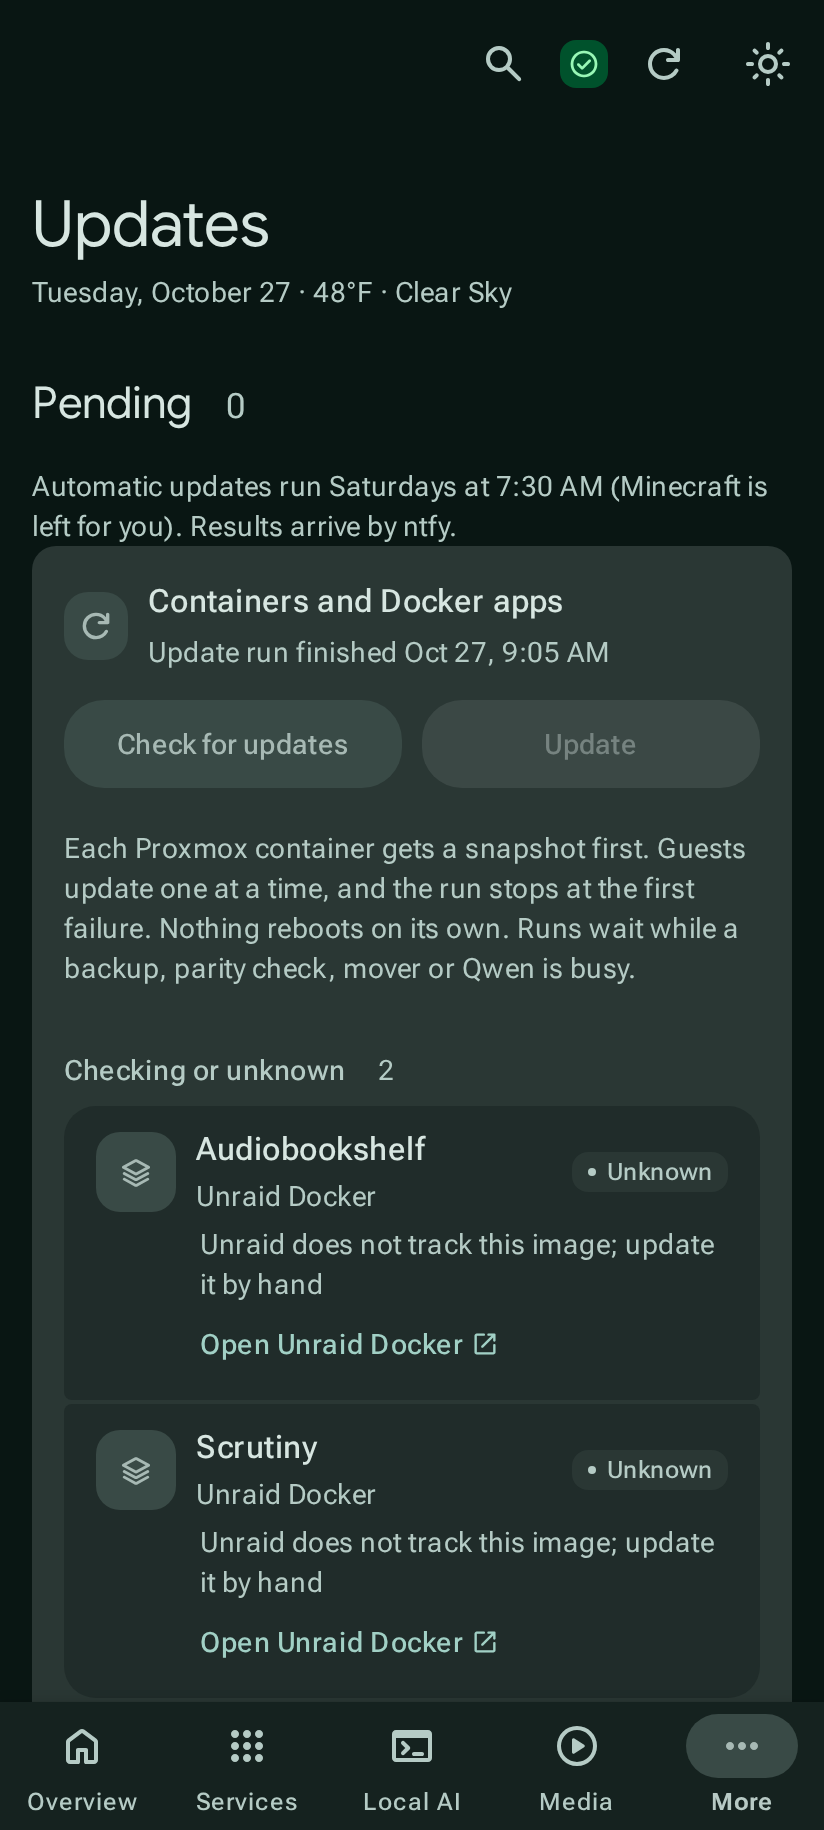
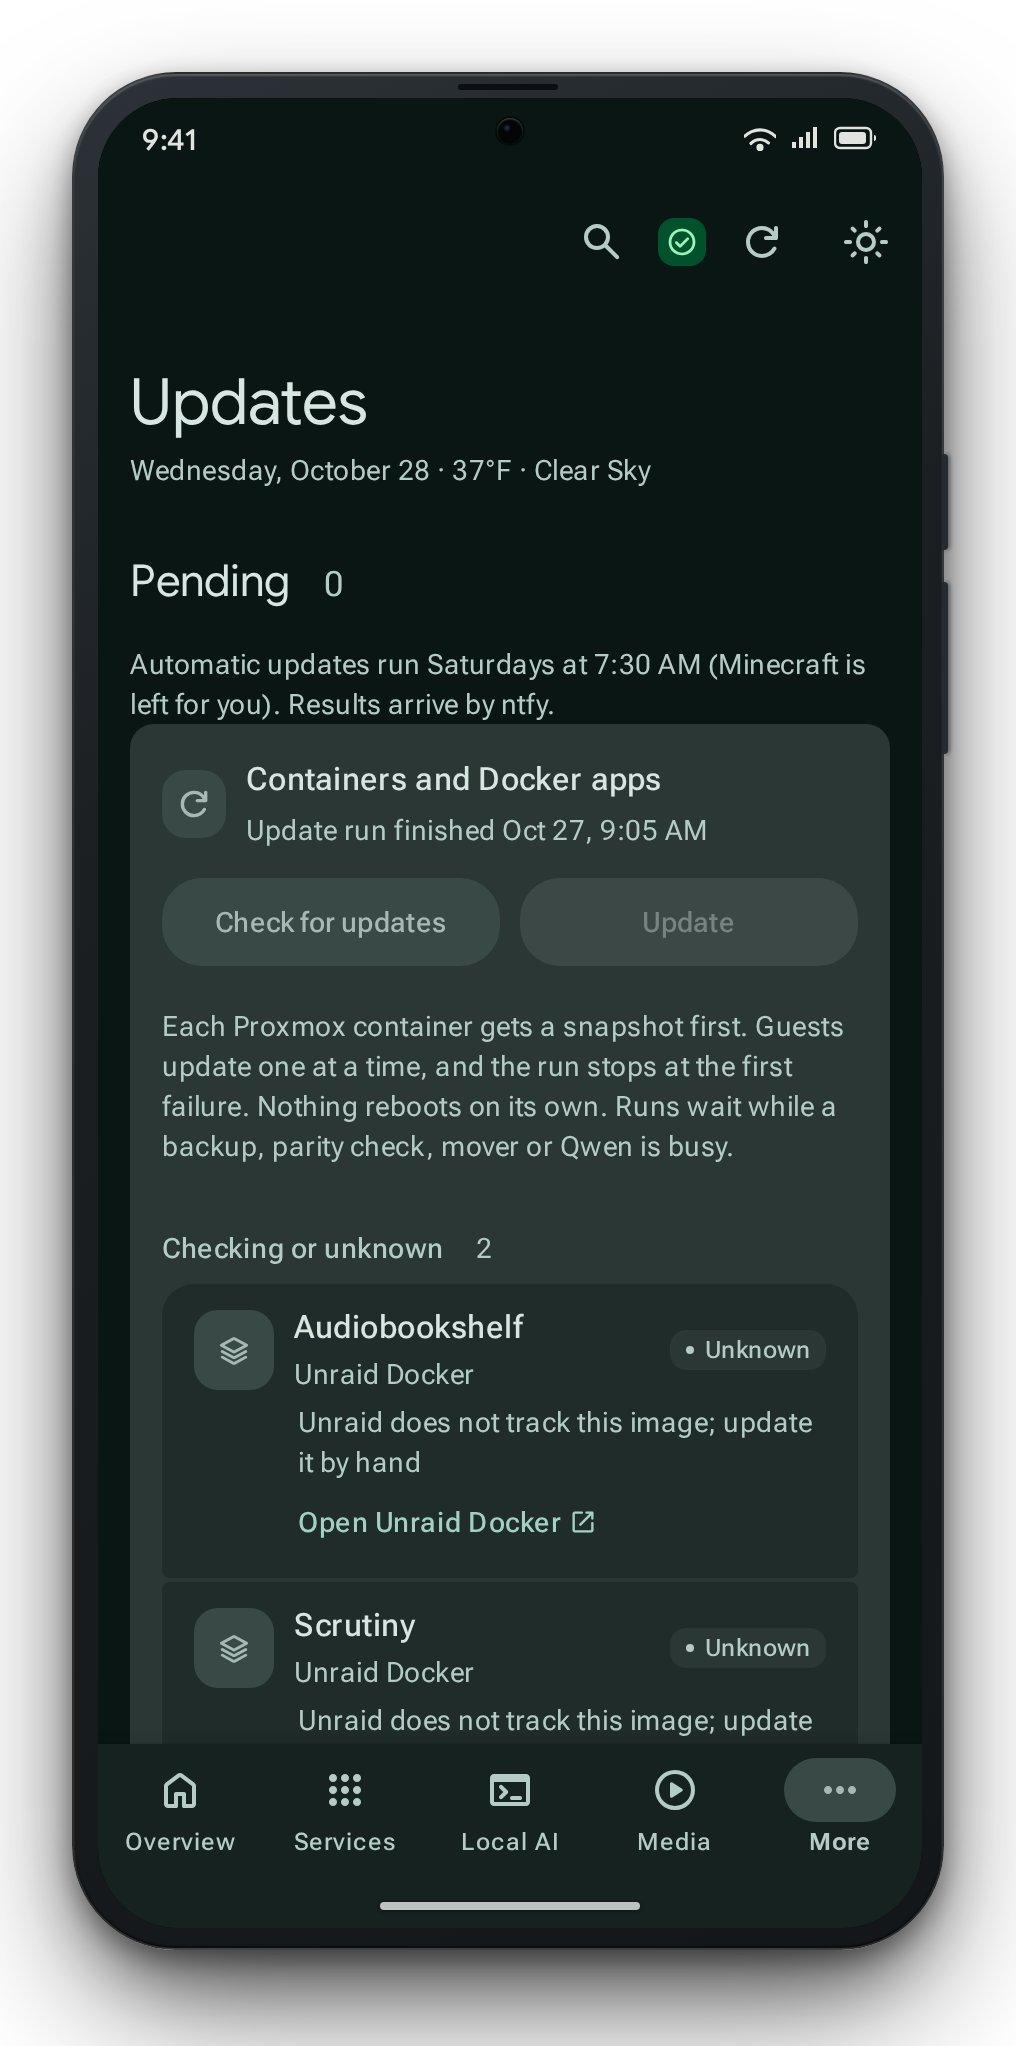
docs: update screenshots with realistic Android device frames and insets

diff --git a/README.md b/README.md
@@ -3,11 +3,11 @@
 A lightweight Android app for the [Homelab Command Center](https://github.com/roneill2000/homelab-dashboard). It runs the dashboard full screen with 120Hz scrolling, edge-to-edge system bar insets, and proper hardware back button support.
 
 <p align="center">
-  <img src="screenshots/overview.png" width="30%" alt="Overview screen on phone" />
-  &nbsp;
-  <img src="screenshots/more-sheet.png" width="30%" alt="More destinations bottom sheet" />
-  &nbsp;
-  <img src="screenshots/updates.png" width="30%" alt="Updates view on phone" />
+  <img src="screenshots/overview.png" width="270" alt="Overview screen on phone" />
+  &nbsp;&nbsp;
+  <img src="screenshots/more-sheet.png" width="270" alt="More destinations bottom sheet" />
+  &nbsp;&nbsp;
+  <img src="screenshots/updates.png" width="270" alt="Updates view on phone" />
 </p>
 
 ---
